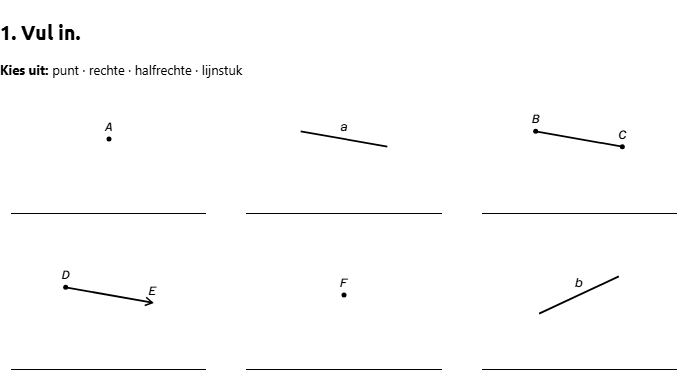
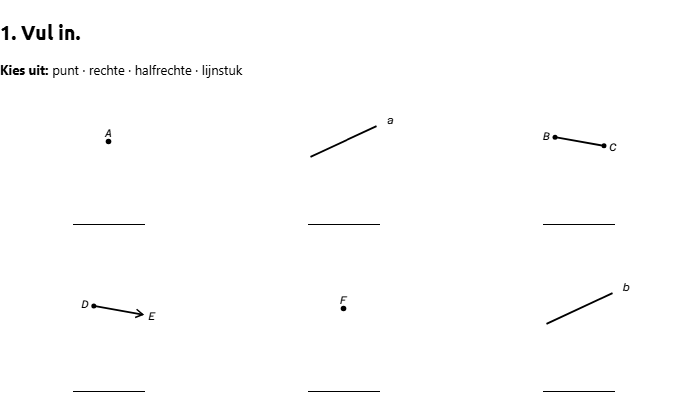
chore(catalogue): regenerate vormleer punt-lijn and hoeken-tekenen previews

diff --git a/oefeningen.html b/oefeningen.html
@@ -1570,7 +1570,7 @@
         <h4>Herkennen</h4>
         <p class="ex-instruction">&ldquo;Hoe heet dit?&rdquo;</p>
         <p class="ex-desc">Instelbaar: modus, plus aantal, breedte, lettergrootte en schrijfruimte.</p>
-        <img src="/oefeningen/vormleer-punt-lijn-herkennen.png" alt="Voorbeeld van de oefening Herkennen" loading="lazy" width="688" height="391" />
+        <img src="/oefeningen/vormleer-punt-lijn-herkennen.png" alt="Voorbeeld van de oefening Herkennen" loading="lazy" width="688" height="413" />
       </article>
       <article class="ex-card" id="vormleer-punt-lijn-tekenen" data-leaf="vormleer-punt-lijn-tekenen" data-type="vormleer-punt-lijn">
         <h4>Tekenen</h4>
